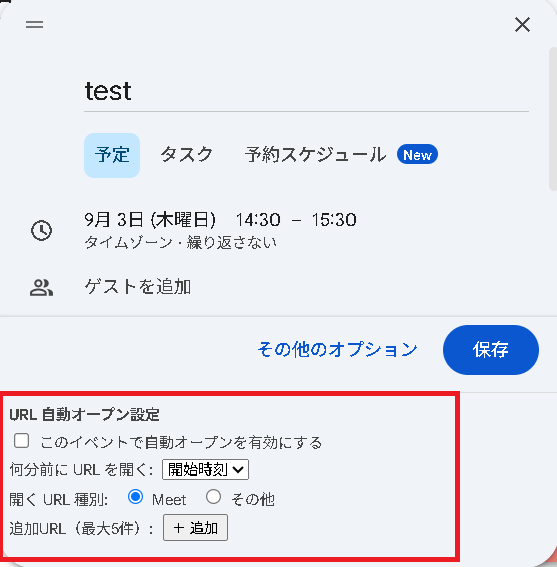
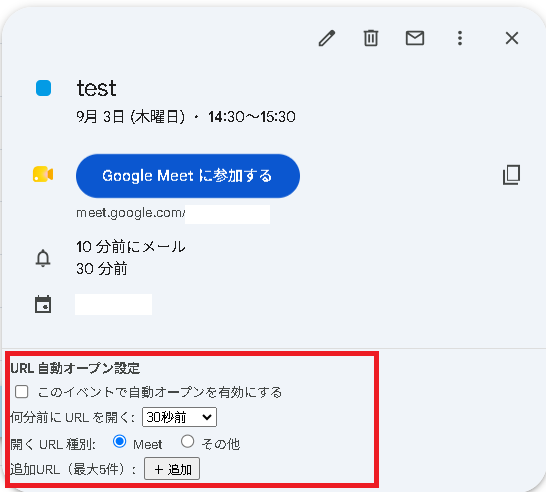
画像修正 メッセージのフェードアウト追加

diff --git a/calendar_content.js b/calendar_content.js
@@ -157,19 +157,21 @@ function injectCalendarUi(panel) {
     let finalUrl = null;
     let customUrl = null;
 
-    if (selectedUrlType === "meet") {
-      if (!meetUrl) {
-        statusElem.textContent = "Meet URL を取得できません。";
-        return;
+    if (enabled) {
+      if (selectedUrlType === "meet") {
+        if (!meetUrl) {
+          statusElem.textContent = "Meet URL を取得できません。";
+          return;
+        }
+        finalUrl = meetUrl;
+      } else {
+        customUrl = customUrlInput.value.trim();
+        if (!customUrl) {
+          statusElem.textContent = "その他URLを入力してください。";
+          return;
+        }
+        finalUrl = customUrl;
       }
-      finalUrl = meetUrl;
-    } else {
-      customUrl = customUrlInput.value.trim();
-      if (!customUrl) {
-        statusElem.textContent = "その他URLを入力してください。";
-        return;
-      }
-      finalUrl = customUrl;
     }
 
     try {
@@ -193,7 +195,18 @@ function injectCalendarUi(panel) {
         };
         chrome.storage.sync.set({ meetAutoJoinEvents: map }, () => {
           if (chrome.runtime.lastError || !chrome.runtime?.id) return;
-          statusElem.textContent = "自動オープン設定を保存しました。"+map[eventId].offsetMinutes+"分前 opentype:"+map[eventId].urlType+" "+(map[eventId].urlType=="other"? map[eventId].customUrl : map[eventId].meetUrl);
+          if (!enabled) {
+            statusElem.textContent = "自動オープン設定を保存しました。無効";
+          } else {
+            statusElem.textContent = "自動オープン設定を保存しました。"+map[eventId].offsetMinutes+"分前 opentype:"+map[eventId].urlType+" "+(map[eventId].urlType=="other"? map[eventId].customUrl : map[eventId].meetUrl);
+          }
+          statusElem.style.transition = "";
+          statusElem.style.opacity = "1";
+          clearTimeout(statusElem._fadeTimer);
+          statusElem._fadeTimer = setTimeout(() => {
+            statusElem.style.transition = "opacity 0.5s ease-out";
+            statusElem.style.opacity = "0";
+          }, 3000);
           chrome.runtime.sendMessage({ type: "refresh-alarms" });
         });
       });
